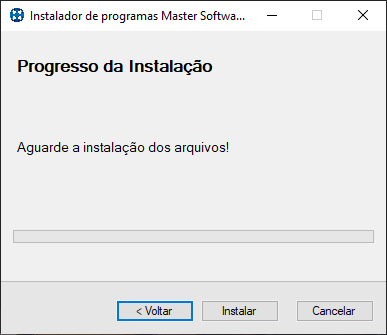
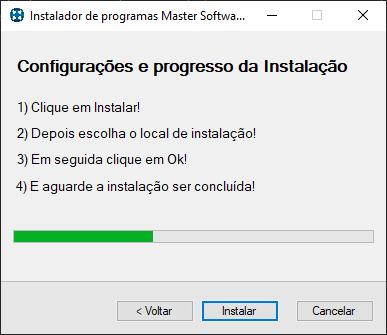
Correções da seção de configurações

diff --git a/Instalador de programas/Progresso.Designer.cs b/Instalador de programas/Progresso.Designer.cs
@@ -48,9 +48,10 @@
             this.label2.Font = new System.Drawing.Font("Microsoft Sans Serif", 12F, System.Drawing.FontStyle.Bold, System.Drawing.GraphicsUnit.Point, ((byte)(0)));
             this.label2.Location = new System.Drawing.Point(12, 25);
             this.label2.Name = "label2";
-            this.label2.Size = new System.Drawing.Size(204, 20);
+            this.label2.Size = new System.Drawing.Size(339, 20);
             this.label2.TabIndex = 12;
-            this.label2.Text = "Progresso da Instalação";
+            this.label2.Text = "Configurações e progresso da Instalação";
+            this.label2.Click += new System.EventHandler(this.label2_Click);
             // 
             // progressBar1
             // 

diff --git a/Instalador de programas/Progresso.cs b/Instalador de programas/Progresso.cs
@@ -82,5 +82,10 @@ namespace Instalador_de_programas
                 }
             }
         }
+
+        private void label2_Click(object sender, EventArgs e)
+        {
+
+        }
     }
 }
